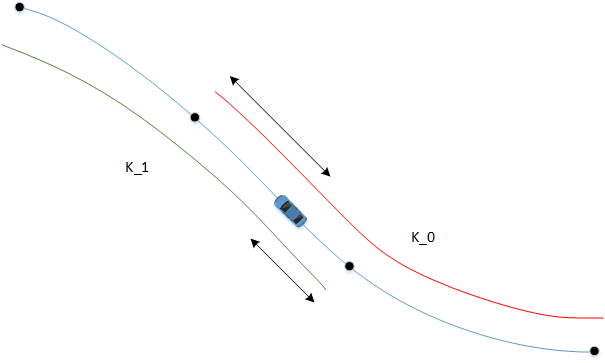
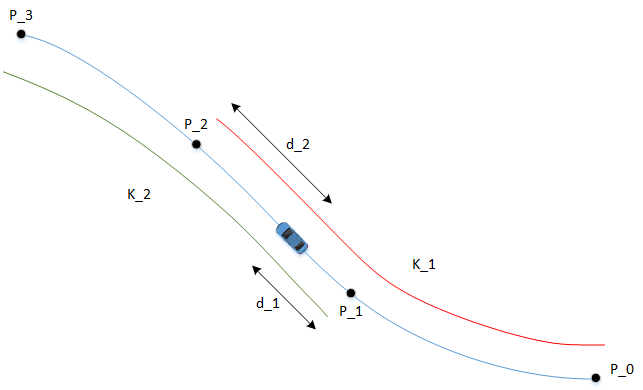
Further modifications of the README

diff --git a/README.md b/README.md
@@ -1,78 +1,147 @@
-# Udacity SDC Nanodegree
+# Udacity Self-driving Car Nanodegree
 ## Term 3 - Project 11
-## Path Planning Project
+# Path Planning Project
+---
+
+## Build and Run Instruction
+It is advised to create a separate build directory, e.g., `build/`, before launching cmake and make.
+The program can then be launched by typing in `/path_planning`.
+Make sure that the Udacity term 3 simulator for the path planning project is running in the background.
+
+## Introduction
+The aim of this project is to write a path planner for the term 3 simulator. The basic scenario is a simulated non-exit 3-lane highway with intermediate traffic density. The outline of the highway is as follows (source of plot: Udacity forum):
+
+![](./images/waypoints.png)
+
+In order to help the car navigate along the highway, 42 predefined waypoints are given and listed in `data/highway_map.csv`.
+
+Although the dimensions are never really clarified, it assumed that the waypoint-coordinates are measured in meters.
 
 
-The aim of this project was to write a path planner for the term 3 simulator.
-
-*Machine setup:*
-* Intel i5-6500 CPU
-* 16GB RAM
-* Nvidia GTX 1060 GPU, 6GB VRAM
-* Linux Mint 18 (based on Ubuntu 16.04)
-
-*Problems encountered:*
-
-* `getXY()`-function was unsuitable for transforming the quintic curve (s(t),d(t)) into Cartesian coordinates. Inspection of this function revealed that it utilizes linear interpolation between the 42 map points. This however leads to the phenomenon that the curved line will be broken at the map points.
 
 
 
-#### Behavior Planner
+## Behavior Planner
 The Behavior Planner is based on the principle that it plans a trajectory of a fixed distance of ![](https://latex.codecogs.com/gif.latex?%5CDelta%20s) ahead of the ego vehicle (![](https://latex.codecogs.com/gif.latex?%5CDelta%20s) = 90 meters).
-The Trajectory Class accepts the total
+
+
+#### State Machine
+The state machine is very primitive and consists of only three states:
 
 * LC - Lane Keep
 * LCL - Lane Change Left
 * LCR - Lane Change Right
 
-Figure ?? illustrates the state machine:
+The next figure illustrates the state machine:
 
 ![](./images/Drawing1.png)
 
-`current_lane` switches to `intended_lane` when the ego vehicle has entered the intended lane.
+State transitions can only occur when the ego vehicle has traversed the preplanned trajectory and are based on a cost-function system. This is certainly not a very realistic concept, but it deals with the limitations of the simulator. It would be desirable to enable the vehicle to evaluate its state every predefined time interval (such as every 20 ms). This seems to require some trickery with the simulator and should be possible, but is unfortunately out of the scope at the time of this writing.
 
-As indicated in the following figure, we subdivide the road in front of the vehicle (and to some extend also behind) into "buckets":
+State transitions are evaluated as follows: Depending on the current lane the ego vehicle resides (stored in the variable `current_lane`), two or three trajectories are created. On or two for lane changes and one for staying on the lane. The trajectory constructor receives - apart from the obvious ego vehicle kinematics - information on the average traffic speed in each lane.
 
-A for-loop iterates over all cars in the proximity of the ego vehicle (these where already filtered in a loop in the main()-function) and places them into a backet.
-Each bucket has a certain cost. For example, cars farer away from the ego-vehicle are given a lower cost, and vehicles in the proximity of the ego vehicle are given a higher cost.
+Each of the trajectory candidates is then evaluated by the cost functions as described below. The trajectory with the lowest costs will be the next to be pursued.
+
+
+
+#### Cost Functions
+The state machine has two different cost functions:
+
+* `cost_function_traffic()`
+* `cost_function_behavior()`
+
+Of these to, we shall mainly focus on `cost_function_traffic()`, as the second one is designed relatively straightforward and follows the study material offered in the lessons.
+
+As indicated in the following figure, subdivide the road in front of the vehicle (and to some extend also behind) into "buckets":
 
 ![](./images/Drawing2.png)
 
-
-A second cost function is designed relatively straightforward
+A for-loop iterates over all cars in the proximity of the ego vehicle (these where already pre-filtered in a loop in the `main()`-function) and places them into a bucket.
+Each bucket has a certain cost. For example, cars farer away from the ego-vehicle are given a lower cost, and vehicles in the proximity of the ego vehicle are given a higher cost.
 
 The advantage of this "bucket-approach" seems to be much less dependency on the cost-functions' weight, and therefore less need for fine-tuning. Also, the complexity of the operation is significantly less than other approaches like tracing the trajectories of the target vehicles.
 
 
-
 #### Trajectory Generation
-The Trajectory Class accepts the total time ![](https://latex.codecogs.com/gif.latex?%5CDelta%20T) as input as well as initial and final positions, and initial and final longitudinal velocities. The total time ensures that the mean speed along the interior of the trajectory stays in a range definied by the initial and final velocities. E.g., choosing ![](https://latex.codecogs.com/gif.latex?%5CDelta%20T) relatively large leads to the ego vehicle first decelerating and then accelerating again. Choosing ![](https://latex.codecogs.com/gif.latex?%5CDelta%20T) relatively large leads to the ego vehicle first accelerating and then decelerating again.
+The trajectories are modeled as instances of the `Trajectory`-class. For modeling a jerk-minimizing trajectory, I have utilized quintic polynomials which minimize the functional
+
+![](https://latex.codecogs.com/gif.latex?%5Cint_0%5E%7B%5CDelta%20T%7D%20%5Cleft%7C%5Cdddot%7Bs%7D%28t%29%29%5Cright%7C%5E2%20dt)
+
+and satisfy the boundary conditions as required.
+
+The Trajectory class' constructor accepts values such as the total time ![](https://latex.codecogs.com/gif.latex?%5CDelta%20T)
+as input as well as initial and final positions, and initial and final longitudinal velocities. Note that the final longitudinal velocity is calculated by the state machine using the available traffic data.
+
+The total time ensures that the mean speed along the interior of the trajectory stays in a range defined by the initial and final velocities. E.g., choosing ![](https://latex.codecogs.com/gif.latex?%5CDelta%20T) relatively large leads to the ego vehicle first decelerating and then accelerating again. Choosing ![](https://latex.codecogs.com/gif.latex?%5CDelta%20T) relatively large leads to the ego vehicle first accelerating and then decelerating again.
 
 
 
-#### getXY()-function
-The `getXY()`-function is of critical importance. As described above, it had to be modified in order to become useful.
 
-![](https://latex.codecogs.com/gif.latex?%5C%7B%20P_0%2C%20P_1%2C%20P_2%2C%20P_3%20%5C%7D)
+## Analysis
+### Failed attempts
+Since there were only relatively little guidelines for this project, the students had perhaps more freedom to explore individual solutions than in other projects of the SDC-ND. This lead us to experimenting with several different solutions and eventually abandoning them after several hours of research.
 
-We denote by K_1(t) the spline generated by the three points ![](https://latex.codecogs.com/gif.latex?%5Cinline%20%5Cmathcal%7BK%7D_0%20%3D%20%5C%7B%20P_0%2C%20P_1%2C%20P_2%20%5C%7D)
-(red line in the illustration), and by K_2 the spline generated by
-![](https://latex.codecogs.com/gif.latex?%5Cmathcal%7BK%7D_1%20%3D%20%5C%7B%20P_1%2C%20P_2%2C%20P_3%20%5C%7D) (green line).
-The interpolated line is the blue one.
+**Stochastic trajectory generation**
+By this I mean choosing random endpoints for the trajectories and choosing the one with the lowest costs. The problem with this approach is that while it worked in principle, it has eaten too many computational resources.
+
+**Calculating cost of trajectory**
+I.e. predicting the movement of each target vehicle and calculating collision trajectories. Again, this methods has taken too many CPU cycles. Calculating a few dozen trajectories in advance has taken several seconds.
 
 
-The interpolation algorithm makes use of an interesting idea by fellow *Udacity SDC-ND student* [Piermarco Pascale][1].  He proposed a norm
-However, as his approach is incredibly accurate, it is - due to it's computational complexity - useless for practical purposes. We modified it by exchanging the integration part with splines. For a detailed description of algorithm, cf. the description below.
 
-As for he spline library, we make use of the [library by Tino Kluge][2], as suggested in the lectures. It picks the closest two map points in front of the ego vehicle, and the closest two map points behind it. It then generates two spline curves between the first three points and the last three points.
+## Possible Modifications
+Although the current solution enables the ego vehicle to navigate through the traffic, it is far from optimal. I therefore suggest further modifications:
+
+One possible modification which I have only shortly delved into is the possibility to enable near real-time path planning akin to the MPC project. It seems like this requires some delicate fine-tuning, as the vehicle behaves rather rough when one attempts to modify the trajectory each time the state machine is called from the main-loop.
+
+One state which I wish to add - if such a modification is possible - is an *emergency abort* which returns the vehicle into a safe state (like returning into the original lane) whenever a unforeseen situation arises, e.g. when getting too close to a target vehicle.
+
+
+
+## Comment on the Provided Framework
+Most students I have communicated with share the same opinion that fixing the boilerplate code was quite distracting from the primary objective of developing a reliable path planner. There are at least two main issues which require attention before the path planner can be attacked.
+
+1. Putting the complete code into `main.cpp` seemed to be rather inconvenient for such a relatively complex project. Also, the usage of classes appears rather naturally from the project and using separate files for each class is therefore mandatory.
+
+2. The `getXY()` function for translating *Frenet* into *Cartesian* coordinates was unsuitable for transforming the quintic curve ![](https://latex.codecogs.com/gif.latex?t%5Cmapsto%28s%28t%29%2Cd%28t%29%29) into Cartesian coordinates. Its original implementation relied on a simple linear interpolation between the track's 42 waypoints, which resulted in piecewise polynomial trajectories after a quintic polynomial in Frenet coordinates has been translated into Cartesian coordinates.
+
+**Ad 1.)** First of all, instead of relying on a single `main.cpp`-file, I chose to split the code into several different files. These are (omitting header files):
+
+* `main.cpp`: Contains the main loop which communicates with the simulator.
+* `statemachine.cpp`: Contains the state machine and cost functions.
+* `trajectory.cpp`: Contains the `Trajectory`-class. An instance of `Trajectory` is
+* `common.cpp`: A collection of functions, such as the affine coordinate transformations `global2local()` and `local2global()` which are used when creating splines.
+* `maptool.cpp`: `Maptool`-class which can be considered as a singleton. Its members are useful functions such as `getXY()` and `getFrenet()`.
+
+**Ad 2.)** Development of a new `getXY_spline()` method which targets the non-smoothness issues above. [The section below](#The-getXY-Function) is dedicated to this question.
+
+
+
+## The getXY()-Function
+The `getXY()`-function is of critical importance. As described above, it had to be modified in order to become useful. Our approach is based on the following idea:
+Let ![](https://latex.codecogs.com/gif.latex?%5C%7B%20P_0%2C%20P_1%2C%20P_2%2C%20P_3%20%5C%7D)
+be four adjacent waypoints, where ![](https://latex.codecogs.com/gif.latex?P_3) and ![](https://latex.codecogs.com/gif.latex?P_2) are the next two waypoints in front of the ego vehicle, and ![](https://latex.codecogs.com/gif.latex?P_1) and ![](https://latex.codecogs.com/gif.latex?P_0) the next two behind (cf. the illustration below).
 
 ![](./images/Drawing3.png)
 
-The two splines are not identical in the section between points ![](https://latex.codecogs.com/gif.latex?P_1) and ![](https://latex.codecogs.com/gif.latex?P_2). Let ![](https://latex.codecogs.com/gif.latex?d_1) and ![](https://latex.codecogs.com/gif.latex?d_2) be the s-distance of the car to ![](https://latex.codecogs.com/gif.latex?P_2) and ![](https://latex.codecogs.com/gif.latex?P_1), respectively. In order to find a smooth approximation for the whole track, we define the following weights:
+Denote by ![](https://latex.codecogs.com/gif.latex?K_1) the spline generated by the three points
+![](https://latex.codecogs.com/gif.latex?%20%5C%7B%20P_0%2C%20P_1%2C%20P_2%20%5C%7D)
+(red line in the illustration), and by
+![](https://latex.codecogs.com/gif.latex?K_2)
+the spline generated by
+![](https://latex.codecogs.com/gif.latex?%20%5C%7B%20P_1%2C%20P_2%2C%20P_3%20%5C%7D) (green line).
+
+Note that the two splines are in general not identical in the section between points ![](https://latex.codecogs.com/gif.latex?P_1)
+and
+![](https://latex.codecogs.com/gif.latex?P_2).
+
+The two splines will be interpolated within the interval between these points as follows:
+
+Let ![](https://latex.codecogs.com/gif.latex?d_1) and ![](https://latex.codecogs.com/gif.latex?d_2) be the s-distance of the car to ![](https://latex.codecogs.com/gif.latex?P_2) and ![](https://latex.codecogs.com/gif.latex?P_1), respectively. In order to find a smooth approximation for the whole track, define the following weights:
 
 ![](https://latex.codecogs.com/gif.latex?p%20%3D%20d_2%5E%7B-2%7D) and ![](https://latex.codecogs.com/gif.latex?q%3D%20d_1%5E%7B-2%7D).
 
-We then define further:
+Then define further:
 ![](https://latex.codecogs.com/gif.latex?n%20%3D%20p&plus;q)
 
 The interpolated XY-position is then defined as:
@@ -104,47 +173,35 @@ The interpolation is can be done with new splines ![](https://latex.codecogs.com
 
 
 
-## Analysis
 
-#### Failed attempts
-Since there were only relatively little guidelines for this project,
+The interpolation algorithm makes use of an interesting idea by fellow *Udacity SDC-ND student* [Piermarco Pascale][1].  He proposed a norm
+However, as his approach is incredibly accurate, it is - due to it's computational complexity - useless for practical purposes. I modified it by exchanging the integration part with splines. For a detailed description of algorithm, cf. the description below.
 
-**Stochastic trajectory generation**
-By this we mean choosing random endpoints for the trajectories and choosing the one with the lowest costs. The problem with this approach is that while it worked in principle, it has eaten too many resources.
-
-**Calculating cost of trajectory**
-I.e. predicting the movement of each target vehicle and calculating collision trajectories. Again, this methods has taken too much resources. Calculating a few dozen trajectories takes a few seconds.
+As for he spline library, I make use of the [library by Tino Kluge][2], as suggested in the lectures. It picks the closest two map points in front of the ego vehicle, and the closest two map points behind it. It then generates two spline curves between the first three points and the last three points.
 
 
-
-#### Possible Modifications
-One possible modification which I have only shortly delved into is the possibility to enable near real-time path planning akin to the MPC project.
-
-
-
-#### Comment on the Provided Framework
-Most students I have communicated with share the same opinion that fixing the was quite distracting from the primary objective of
-
-First of all, instead of relying on a single `main.cpp`-file, I chose to split the code into several different files. These are (omitting header files)
-
-* `main.cpp`: Contains the main loop which communicates with
-* `statemachine.cpp`: Contains the state machine and cost functions.
-* `trajectory.cpp`: Contains the `Trajectory`-class. An instance of `Trajectory` is
-* `common.cpp`: A collection of functions, such as the affine coordinate transformations `global2local()` and `local2global()`.
-* `maptool.cpp`: `Maptool`-class which can be considered as a singleton. Its members are useful functions such as `getXY()` and `getFrenet()`.
 
 
 
 
 ## Conclusion
-Although the project was extremely interesting, the largest portion of time had to be dedicated to secondary objectives. These included trying out new architectures for the code, and rewriting helper functions, especially the notorious `getXY()`.
+Although the project was extremely interesting, the largest portion of time had to be dedicated to secondary objectives. These included trying out new architectures for the code and rewriting helper functions, especially the notorious `getXY()`.
 One lesson I have learned is that computational complexity is a huge issue when developing algorithms for self-driving cars. Concepts which have been introduced in the lectures, for example stochastic trajectory generation seem to be unfeasible for usage in the simulator.
 
 At the time of submission, I have not been fully satisfied by the architecture I have developed.
 
+***
 
+*Machine setup:*
+* Intel i5-6500 CPU
+* 16GB RAM
+* Nvidia GTX 1060 GPU, 6GB VRAM
+* Linux Mint 18 (based on Ubuntu 16.04)
+
+
+
+***
 The latex-graphics were generated by https://www.codecogs.com/eqnedit.php.
-
 
 [1]: https://discussions.udacity.com/t/a-more-refined-getxy-function/666827
 [2]: http://kluge.in-chemnitz.de/opensource/spline/
